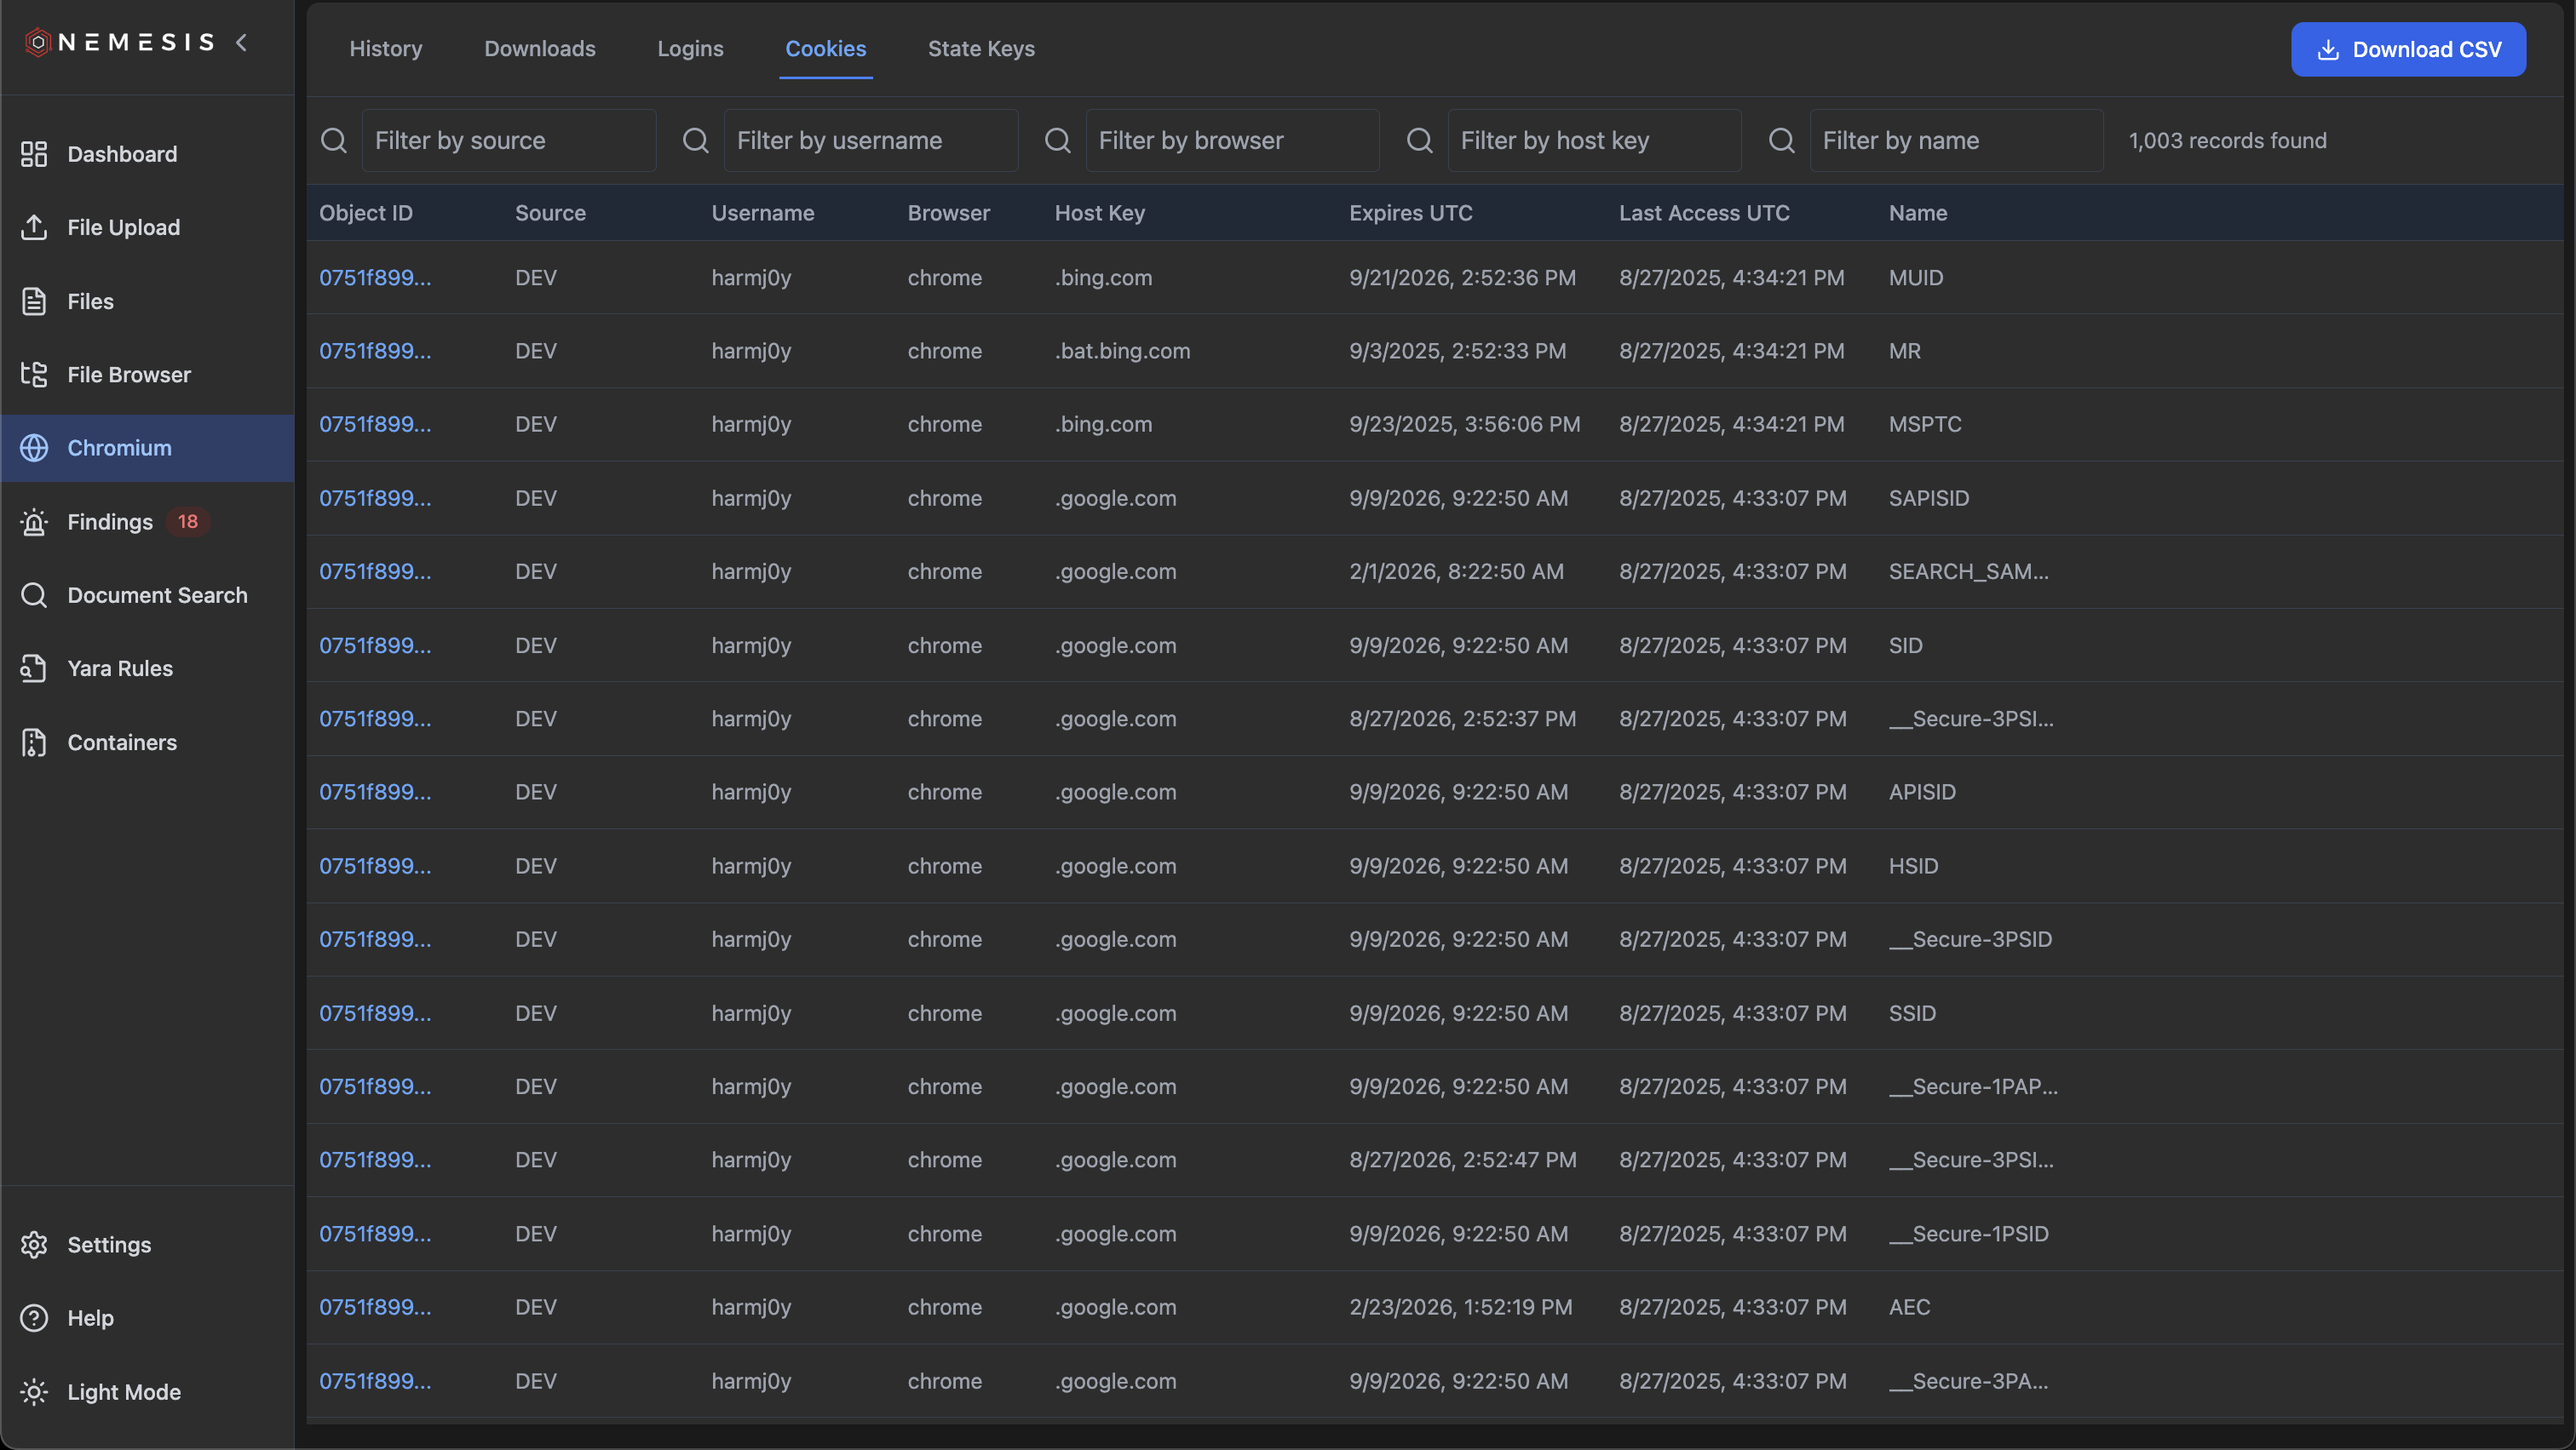
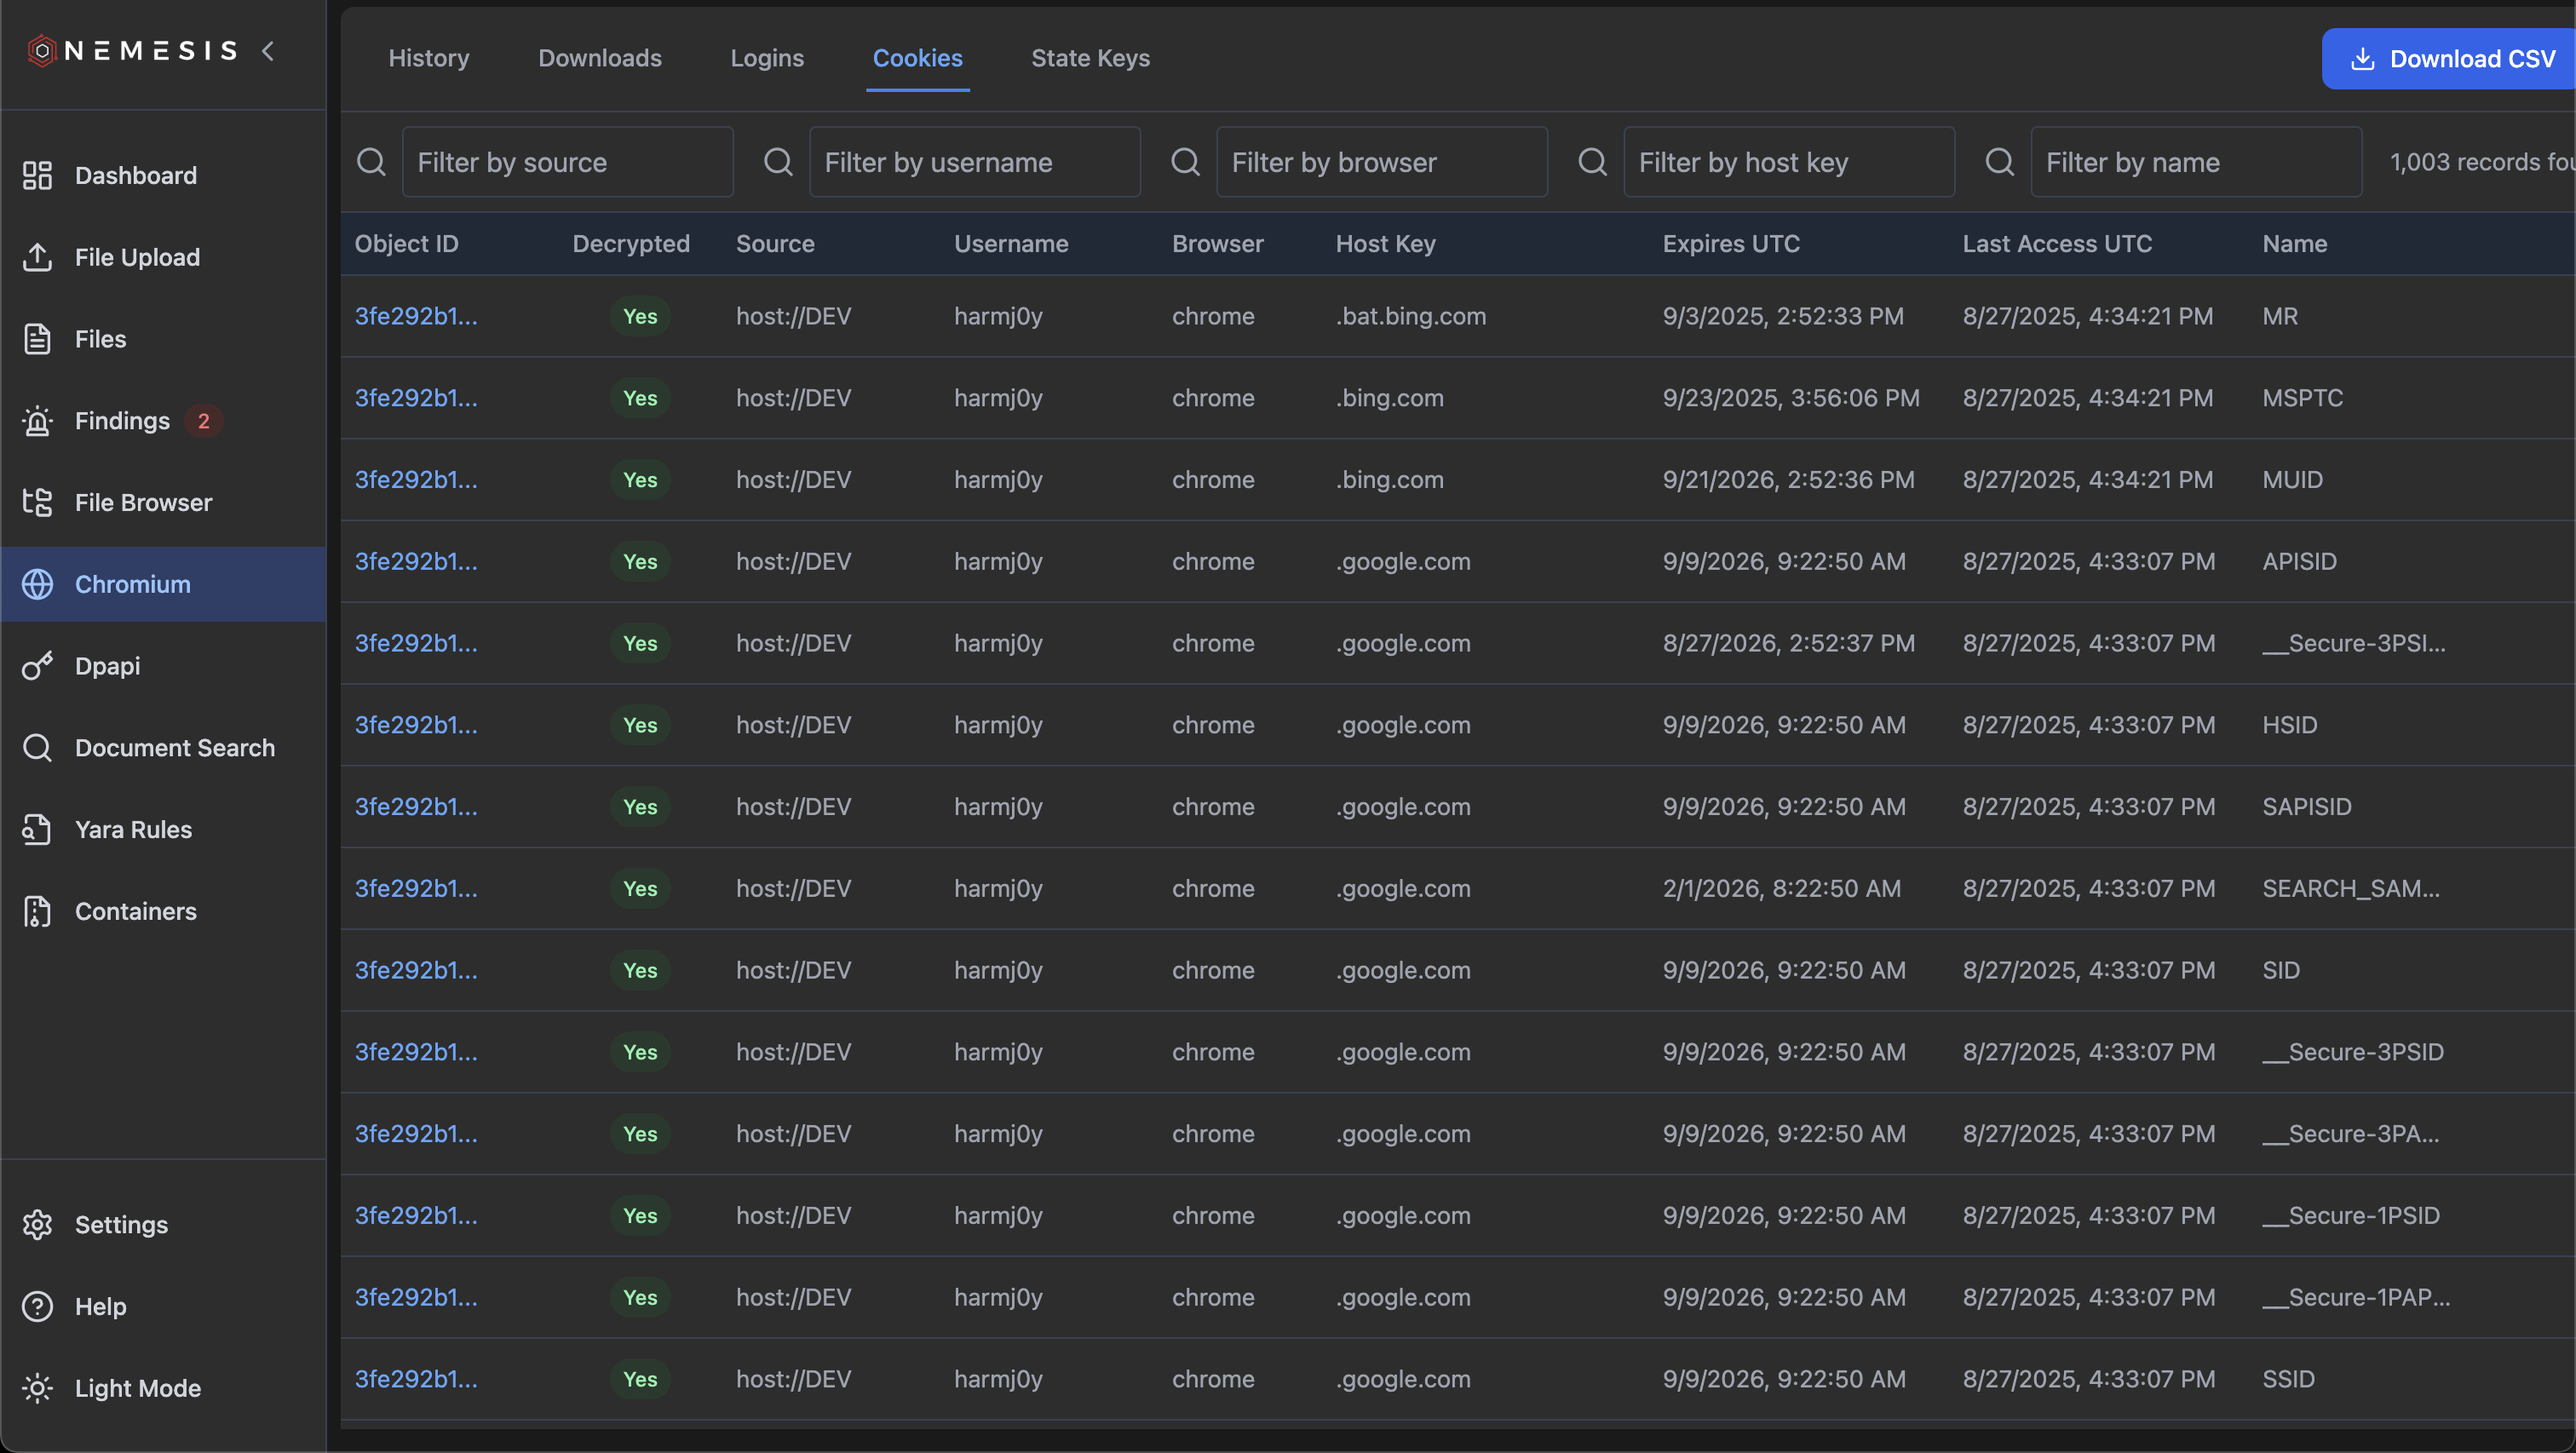
Updated `chromium` docs
-Updated `chromium` docs

diff --git a/docs/chromium.md b/docs/chromium.md
@@ -6,49 +6,16 @@ Nemesis includes comprehensive support for analyzing Chromium-based browser data
 
 Nemesis currently analyzes the following Chromium data sources:
 
-| Data Type    | File Source      | Purpose                                                                      |
-| ------------ | ---------------- | ---------------------------------------------------------------------------- |
-| History      | `History`        | Extracts browsing history including URLs, titles, visit counts, and timestamps |
-| Downloads    | `History`        | Extracts download history with file paths, URLs, and download metadata     |
-| Logins       | `Login Data`     | Extracts saved login credentials including usernames and encrypted passwords |
-| Cookies      | `Cookies`        | Extracts browser cookies with domain, name, value, and expiration data     |
-| State Keys   | `Local State`    | Extracts OS encryption keys used to decrypt passwords and sensitive data   |
+| Data Type  | File Source   | Purpose                                                                        |
+| ---------- | ------------- | ------------------------------------------------------------------------------ |
+| History    | `History`     | Extracts browsing history including URLs, titles, visit counts, and timestamps |
+| Downloads  | `History`     | Extracts download history with file paths, URLs, and download metadata         |
+| Logins     | `Login Data`  | Extracts saved login credentials including usernames and passwords             |
+| Cookies    | `Cookies`     | Extracts browser cookies with domain, name, value, and expiration data         |
+| State Keys | `Local State` | Extracts OS encryption keys used to decrypt passwords and sensitive data       |
 
-## File Enrichment Modules
 
-### Chromium History Parser
-
-The `chromium_history` enrichment module automatically processes Chromium `History` database files. It uses YARA rules to detect valid Chromium History databases and extracts both browsing history and download records.
-
-**Detection Criteria:**
-- Files containing `CREATE TABLE downloads_url_chains` and `CREATE TABLE downloads_slices` strings
-- SQLite database format with standard Chromium History schema
-
-### Chromium Login Data Parser
-
-The `chromium_logins` enrichment module processes Chromium `Login Data` database files to extract saved login credentials.
-
-**Detection Criteria:**
-- Files containing `CREATE TABLE logins` string
-- SQLite database format with standard Chromium Login Data schema
-
-### Chromium Cookies Parser
-
-The `chromium_cookies` enrichment module processes Chromium `Cookies` database files to extract browser cookies.
-
-**Detection Criteria:**
-- Files containing `CREATE TABLE cookies` string
-- SQLite database format with standard Chromium Cookies schema
-
-### Chromium Local State Parser
-
-The `chromium_localstate` enrichment module processes Chromium `Local State` JSON files to extract OS encryption keys and browser state information.
-
-**Detection Criteria:**
-- JSON files containing `os_crypt` configuration data
-- Standard Chromium Local State file format
-
-## The Nemesis Web Interface
+## Chrome Web Tab
 
 ### Chromium Data Viewer
 
@@ -58,56 +25,65 @@ The Nemesis frontend provides a dedicated Chromium interface accessible through 
 
 The History tab displays extracted browsing history with searchable and filterable tables. Each entry includes:
 
-- **URL**: The visited website URL
+- **Object ID**: The object_id from the originating file
+- **Source**: the "source" label for the originating file (host, url, etc.)
+- **Username**: Host-based username, extracted from file path context (i.e., `C:\Users\USER\*`)
+- **Browser**: Browser name, extracted from file path context
 - **Title**: Page title as recorded by the browser
-- **Visit Count**: Number of times the URL was visited
+- **Visits**: Number of times the URL was visited
 - **Last Visit**: Timestamp of most recent visit
-- **Username/Browser**: Extracted from file path context
+- **URL**: The visited website URL
 
 ![Chromium History Tab](images/chromium-history-tab.png)
-
-Users can:
-- Search across all history fields
-- Filter by date ranges
-- Sort by any column
-- Export results to CSV format
-- Copy individual entries or entire result sets
 
 ### Downloads Tab
 
 The Downloads tab shows extracted download history with detailed information about each downloaded file:
 
-- **Download URL**: Original source URL of the downloaded file
-- **File Path**: Local file system path where file was saved
-- **File Size**: Size of downloaded file
-- **Download Date**: When the download completed
-- **Username/Browser**: Context from file path
+- **Object ID**: The object_id from the originating file
+- **Source**: the "source" label for the originating file (host, url, etc.)
+- **Username**: Host-based username, extracted from file path context (i.e., `C:\Users\USER\*`)
+- **Browser**: Browser name, extracted from file path context
+- **URL**: Original source URL of the downloaded file
+- **End Time**: Time the download ended
+- **Download Path**: Path the file was downloaded to on the host
 
 ![Chromium Downloads Tab](images/chromium-downloads-tab.png)
 
 ### Logins Tab
 
-The Logins tab displays extracted login credentials with sensitive information appropriately handled:
+The Logins tab displays extracted login credentials:
 
+- **Object ID**: The object_id from the originating file
+- **Decrypted**: Yes/No indication if the login entry has been decrypted (by a state key) or not
+- **Source**: the "source" label for the originating file (host, url, etc.)
+- **Username**: Host-based username, extracted from file path context (i.e., `C:\Users\USER\*`)
+- **Password**: Plaintext value of the password (if decrypted)
+- **Browser**: Browser name, extracted from file path context
+- **Login Name**: Extracted login name for the login data entry (NOT the host-based path username of the Login Data file)
+- **Times Used**: Number of times the login entry has been used
+- **Signon Realm**: Extracted signon realm for the login entry
 - **Origin URL**: Website where credentials were saved
-- **Username**: Login username or email address
-- **Password Status**: Indicates if password is encrypted or decrypted
-- **Date Created**: When credentials were first saved
-- **Username/Browser**: Context from file path
 
 ![Chromium Logins Tab](images/chromium-logins-tab.png)
 
-**Security Note**: Passwords are stored encrypted and require additional decryption steps using extracted state keys.
-
 ### Cookies Tab
 
-The Cookies tab provides access to extracted browser cookies with comprehensive details:
+The Cookies tab provides access to extracted browser cookies:
 
+- **Object ID**: The object_id from the originating file
+- **Decrypted**: Yes/No indication if the coookie has been decrypted (by a state key) or not
+- **Source**: the "source" label for the originating file (host, url, etc.)
+- **Username**: Host-based username, extracted from file path context (i.e., `C:\Users\USER\*`)
+- **Password**: Plaintext value of the password (if decrypted)
+- **Browser**: Browser name, extracted from file path context
 - **Host Key**: Domain or host the cookie belongs to
-- **Cookie Name**: Name identifier of the cookie
-- **Cookie Value**: Encrypted or plaintext cookie value
-- **Expiration**: Cookie expiration date
-- **Security Flags**: HttpOnly, Secure, SameSite attributes
+- **Expires UTC**: Time (in UTC) the cookie value expires
+- **Last Access UTC**: Time (in UTC) the cookie value was last uased
+- **Name**: Name identifier of the cookie
+
+**Note**: If the cookie value has been decrypted, click "Download CSV" to download the currently filtered/viewable
+cookies on the page *including* decrypted values.
 
 ![Chromium Cookies Tab](images/chromium-cookies-tab.png)
 
@@ -115,14 +91,14 @@ The Cookies tab provides access to extracted browser cookies with comprehensive 
 
 The State Keys tab displays OS encryption keys used by Chromium to protect sensitive data:
 
-- **Master Key GUID**: Windows DPAPI master key identifier
-- **Encrypted Key**: Base64-encoded encrypted key material
-- **Key Purpose**: Intended use (typically password encryption)
-- **Username/Browser**: Context from file path
+- **Object ID**: The object_id from the originating file
+- **Source**: the "source" label for the originating file (host, url, etc.)
+- **Username**: Host-based username, extracted from file path context (i.e., `C:\Users\USER\*`)
+- **Browser**: Browser name, extracted from file path context
+- **Key Decrypted**: If the pre-v127 Chromium local state encryption key has been decrypted
+- **App Bound Key Decrypted**: If the post-v127 Chromium App-bound encryption key has been decrypted
 
 ![Chromium State Keys Tab](images/chromium-state-keys-tab.png)
-
-**Security Note**: These keys are essential for decrypting saved passwords and other encrypted browser data.
 
 ## Data Export and Analysis
 
@@ -141,58 +117,3 @@ Individual records or entire result sets can be copied to clipboard:
 - **Single Row**: Double-click any table row to copy all fields
 - **Multiple Rows**: Select rows and use Ctrl+C (or Cmd+C on Mac)
 - **Filtered Results**: Copy button will copy all currently visible records
-
-## Database Schema
-
-Chromium data is stored in dedicated PostgreSQL tables under the `chromium` schema:
-
-### chromium.history
-- Stores browsing history records with URLs, titles, and visit metadata
-- Links to originating file via `originating_object_id`
-- Includes extracted username and browser context
-
-### chromium.downloads
-- Contains download history with file paths and source URLs
-- Tracks download completion status and file metadata
-- Preserves original download timestamps
-
-### chromium.logins
-- Stores login credential records with encrypted passwords
-- Includes origin URLs and username values
-- Requires state keys for password decryption
-
-### chromium.cookies
-- Contains browser cookies with domain and security attributes
-- Stores both session and persistent cookies
-- Includes expiration and security flag information
-
-### chromium.state_keys
-- Stores OS encryption keys for browser data protection
-- Contains DPAPI master key GUIDs and encrypted key material
-- Essential for decrypting saved passwords and sensitive data
-
-## Security Considerations
-
-### Password Decryption
-
-Chromium passwords are encrypted using OS-level protection mechanisms:
-
-- **Windows**: Uses DPAPI (Data Protection API) with user context
-- **macOS**: Uses Keychain Services for encryption key management
-- **Linux**: Uses various backends including libsecret or plain storage
-
-Decryption requires:
-1. Access to the user's OS encryption context
-2. Corresponding state keys from `Local State` files
-3. Appropriate decryption libraries and tools
-
-### Data Sensitivity
-
-Chromium analysis reveals highly sensitive information:
-
-- **Browsing History**: Can expose visited websites and user behavior patterns
-- **Saved Credentials**: Contains usernames and encrypted passwords for websites
-- **Cookies**: May include authentication tokens and session identifiers
-- **Downloads**: Shows downloaded files and their original sources
-
-Always handle extracted Chromium data with appropriate security controls and access restrictions.
